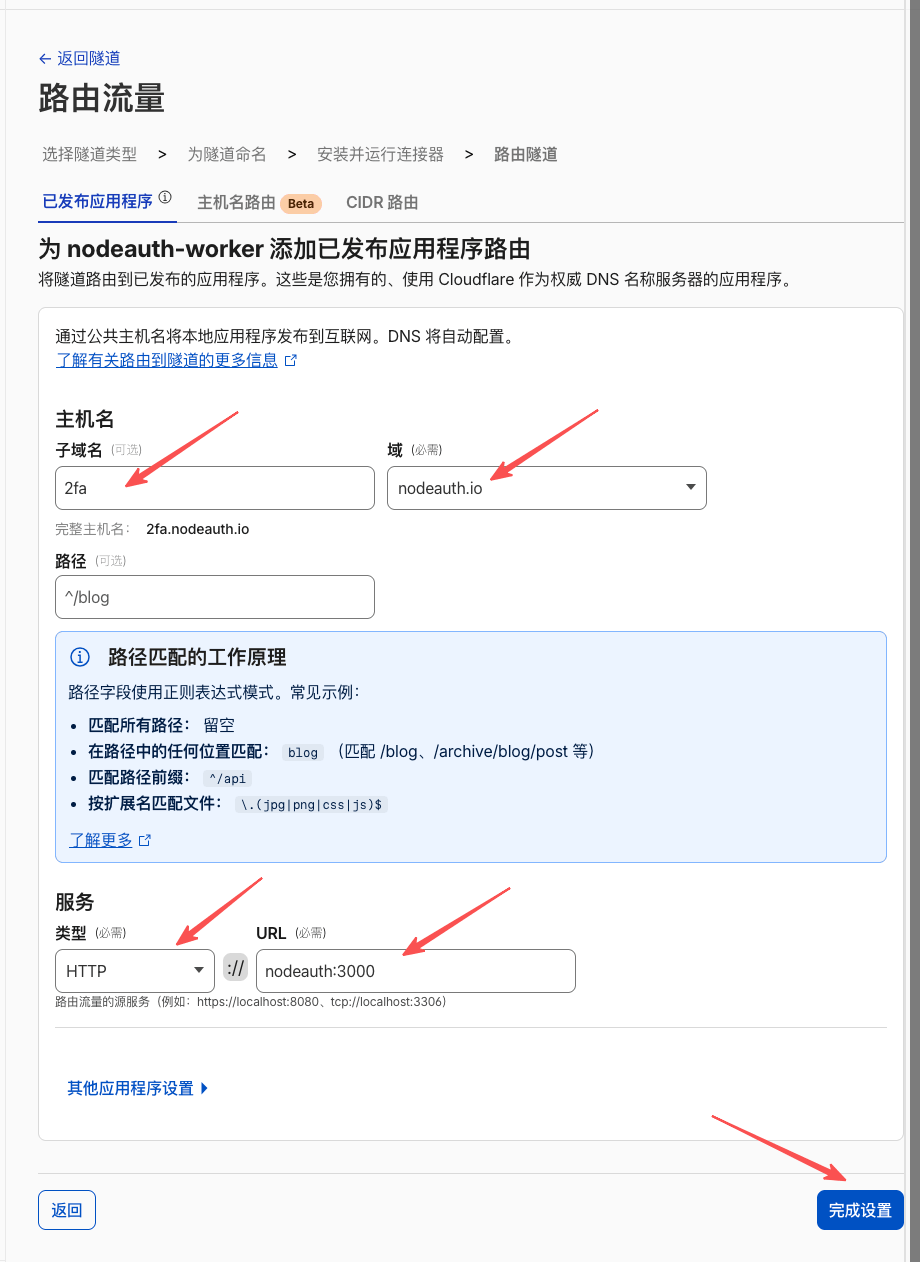
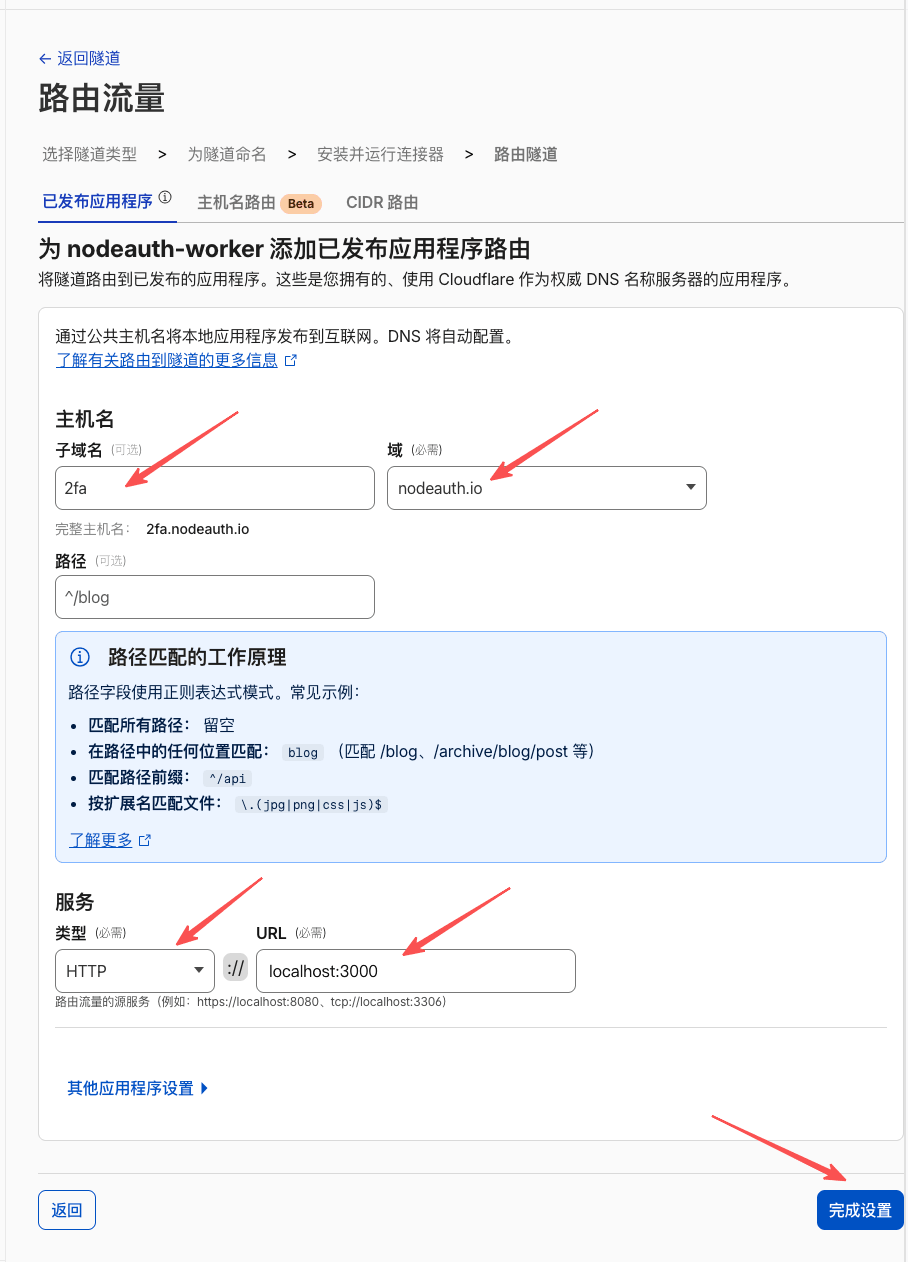
docs: 优化部署与环境变量文档
- 补充 libsql/d1 数据库引擎及 DB_URL 首选连接说明
- 升级 Cloudflare Tunnel 为内置零端口穿透推荐方案
- 重构数据库环境变量配置表，消除备选列重复视觉噪音

diff --git a/docs/en/deploy/docker.md b/docs/en/deploy/docker.md
@@ -60,6 +60,31 @@ sudo chown -R 1000:1000 data
 *   [PostgreSQL Local Container](https://github.com/nodeauth/nodeauth-worker/blob/main/docker-compose-postgresql-local.yml)
 *   [PostgreSQL Remote Connection](https://github.com/nodeauth/nodeauth-worker/blob/main/docker-compose-postgresql-remote.yml)
 
+<details>
+<summary>Click to view: Detailed Storage Options</summary>
+
+#### Option A: Minimalist (SQLite)
+**Target Audience**: Individual users, NAS users, seeking an "all-in-one" solution.
+*   **Advantages**: No separate database container required. All data is stored in a single `data/nodeauth.db` file.
+*   **Configuration**: Simply mount the `/app/data` directory; no `DB_HOST` variables needed.
+*   **Edge & Distributed Support**: By setting `DB_ENGINE` to `libsql` (e.g., Turso) or `d1` (Cloudflare D1 Proxy) alongside `DB_URL` and `DB_TOKEN`, you can seamlessly connect to cloud-distributed SQLite derivatives.
+
+#### Option B: Classic (MySQL)
+**Target Audience**: Users with existing MySQL environments or requiring structured database management.
+*   **Support**: Supports linking with local MySQL containers or connecting to remote RDS/cloud databases.
+*   **Configuration Requirements** (Choose one):
+    *   **Method 1 [Preferred]**: Use the full `DB_URL` connection string (e.g., `mysql://user:password@host:port/dbname`).
+    *   **Method 2 [Alternative]**: When `DB_URL` is omitted, configure `DB_HOST`, `DB_PORT`, `DB_USER`, `DB_PASSWORD`, and `DB_NAME` individually.
+
+#### Option C: Advanced (PostgreSQL)
+**Target Audience**: Users seeking top performance or using external Postgres services like Supabase.
+*   **Support**: Perfectly adapts to Supabase remote connections (setting `DB_SSL=true` is recommended).
+*   **Configuration Requirements** (Choose one):
+    *   **Method 1 [Preferred]**: Use the full `DB_URL` connection string (e.g., `postgresql://user:password@host:port/dbname`).
+    *   **Method 2 [Alternative]**: When `DB_URL` is omitted, configure PG-specific `DB_HOST`, `DB_PORT`, `DB_USER`, `DB_PASSWORD`, and `DB_NAME` individually.
+
+</details>
+
 ### 2. Configure Environment Variables
 Please refer to the detailed [Environment Variables Guide](./env) to correctly modify the variables in your `docker-compose.yml`.
 
@@ -80,9 +105,12 @@ Below are two mainstream reverse proxy solutions. Choose one:
 
 ---
 
-### Option 1: Cloudflare Tunnel (Zero Port Exposure, Recommended)
+### Option 1: Cloudflare Tunnel Built-in Zero-Port Tunnel (Highly Recommended)
 
 Cloudflare Tunnel securely exposes your local service to the internet via outbound connections (without opening any inbound firewall ports), making it perfect for dynamic IPs or users who don't want to expose their server's true IP.
+
+> [!TIP]
+> **Native Cloud-Native Experience**: The NodeAuth container natively integrates the `cloudflared` client! You no longer need to maintain an extra external tunnel container or expose host ports. Simply configure an environment variable to launch the tunnel automatically in the background!
 
 **Prerequisite**: Your domain's DNS is managed by Cloudflare.
 
@@ -110,49 +138,36 @@ Go back to the Cloudflare Zero Trust Dashboard, under the **Public Hostname** ta
 | **Subdomain** | `2fa` (i.e., `2fa.yourdomain.com`) |
 | **Domain** | Your domain |
 | **Type** | `HTTP` |
-| **URL** | `nodeauth:3000` (Docker service name + port) |
+| **URL** | `localhost:3000` |
 
 <details>
 <summary>Click to view: Detailed visual guide</summary>
 <img height="400" src="/deploy/58771d96-5ad0-4e2d-9089-08ee513c42a7.png" />
 </details>
 
-**Step 3: Run cloudflared on Server**
+**Step 3: Configure and Run**
 
-The simplest way is to deploy `cloudflared` as a Docker container alongside NodeAuth in the same `docker-compose.yml`:
+*   Simply add your `CLOUDFLARE_TUNNEL_TOKEN` directly into the app container's environment variables. The container will automatically launch and maintain the encrypted tunnel in the background without exposing any host ports:
+    ```yaml
+    services:
+      nodeauth:
+        image: nodeauth/nodeauth-worker:latest
+        # Note: When using Tunnel, no ports need to be exposed. Comment out or delete the ports block.
+        # ports:
+        #   - "3000:3000"
+        volumes:
+          - ./data:/app/data
+        environment:
+          - NODEAUTH_LICENSE=your_license
+          - JWT_SECRET=your_jwt_secret
+          - ENCRYPTION_KEY=your_encryption_key
+          - OAUTH_ALLOWED_USERS=your_email@example.com
+          
+          # [One-Click Tunnel] Paste your Token copied from Cloudflare
+          - CLOUDFLARE_TUNNEL_TOKEN=eyJhIjoiN****WbVl6ayJ9
+    ```
 
-```yaml
-services:
-  nodeauth:
-    image: nodeauth/nodeauth-worker:latest
-    # Note: When using Tunnel, you don't need to expose ports. Remove the ports config.
-    environment:
-      - NODEAUTH_LICENSE=your_license
-      # ... other env vars
-    volumes:
-      - ./data:/app/data
-
-  # New Cloudflare Tunnel config
-  cloudflared:
-    image: cloudflare/cloudflared:latest
-    command: tunnel --no-autoupdate run
-    environment:
-      # Paste the Token copied from Step 1 here
-      - TUNNEL_TOKEN=your_cloudflare_tunnel_token
-    depends_on:
-      - nodeauth
-    restart: always
-```
-
-Save and run:
-```bash
-docker compose up -d
-```
-
-Cloudflare will automatically issue a certificate and establish the tunnel. You can now access `https://2fa.yourdomain.com` without opening any firewall ports.
-
-> [!TIP]
-> With Cloudflare Tunnel, HTTPS is handled automatically by Cloudflare, and traffic between the container and Cloudflare is encrypted. This is the **most secure** reverse proxy method, highly recommended for home broadband or NAS users.
+Save and run `docker compose up -d`. Cloudflare will automatically issue an SSL certificate and establish an encrypted tunnel. You can now access `https://2fa.yourdomain.com` without opening any firewall inbound ports!
 
 ---
 

diff --git a/docs/en/deploy/env.md b/docs/en/deploy/env.md
@@ -140,18 +140,43 @@ If you have already configured Google login, some variables can be reused, but t
 If you use Cloudflare Workers deployment, the system will automatically use the D1 database, and **no configuration** of the following variables is necessary.
 
 If you are deploying on Docker or your own server:
-*   **Default using SQLite**: Simply mount the `/app/data` directory; no configuration of the following variables is needed.
-*   **Using MySQL / PostgreSQL**: You **must** fully complete all the following connection information (`DB_HOST` to `DB_NAME`).
+*   **Default using SQLite**: Simply mount the `/app/data` directory; no database connection configuration is needed.
+*   **Using MySQL / PostgreSQL / LibSQL / D1**: Please configure `DB_ENGINE`, followed by either **Method 1** or **Method 2** below.
 
-| Variable | Required (non-SQLite) | Default | Description |
+| Basic Variable | Required | Default | Description |
 | :--- | :--- | :--- | :--- |
-| `DB_ENGINE` | ✅ | `sqlite` | Database Type: supports `sqlite`, `mysql`, `postgresql`. |
-| `DB_HOST` | ✅ | - | Database Server Address. Supports local `localhost`, Docker service name `mysql-db`, as well as **remote domains** (e.g.: `aws-1.pooler.supabase.com`) or **public IPs**. |
-| `DB_PORT` | ✅ | - | Database Port. MySQL default is `3306`, PostgreSQL default is `5432`. |
+| `DB_ENGINE` | ✅ | `sqlite` | Database Type: supports `sqlite`, `mysql`, `postgresql`, `libsql`, `d1`. |
+
+#### Method 1: Full Connection String (⭐ Highly Recommended)
+The simplest modern configuration method. Just one line of standard connection URL connects your database, ideal for Turso, Supabase, or external cloud databases.
+
+| Variable | Required | Default | Description |
+| :--- | :--- | :--- | :--- |
+| `DB_URL` | ✅ | - | **Standard connection string**. e.g., `mysql://user:pass@host:3306/dbname` or `postgresql://...`. |
+| `DB_TOKEN` | On-demand | - | **Cloud database auth token**. Required only when connecting to `libsql` (e.g., Turso) or `d1` (Cloudflare D1 Proxy) which require token authentication. |
+| `DB_SSL` | ❌ | `false` | Whether to enable SSL connection (recommended as `true` when connecting to remote cloud databases). |
+
+#### Method 2: Traditional Separate Parameters (Alternative)
+If you prefer traditional separate parameter configuration (e.g., connecting to a database within Docker internal networks), fill in the fields below (if `DB_URL` above is provided, all parameters in this section are automatically ignored).
+
+| Variable | Required | Default | Description |
+| :--- | :--- | :--- | :--- |
+| `DB_HOST` | ✅ | - | Database server address. Supports local `localhost`, Docker service name (e.g., `mysql-db`), remote domain, or IP. |
+| `DB_PORT` | ✅ | - | Database port. MySQL default is `3306`, PostgreSQL default is `5432`. |
 | `DB_USER` | ✅ | - | Database username. |
 | `DB_PASSWORD` | ✅ | - | Database password. |
 | `DB_NAME` | ✅ | - | Specific database name. |
-| `DB_SSL` | ❌ | `false` | Whether to enable SSL connection (recommended as `true` when connecting to remote cloud databases like Supabase). |
+| `DB_SSL` | ❌ | `false` | Whether to enable SSL connection. |
+
+---
+
+## 🌐 Tunnel Configuration (Optional)
+
+When deploying via Docker and wishing to securely expose services via Cloudflare Tunnel without opening inbound ports, we recommend configuring this variable:
+
+| Variable | Default | Description |
+| :--- | :--- | :--- |
+| `CLOUDFLARE_TUNNEL_TOKEN` | - | Official Cloudflare Tunnel Token. Once configured, the container will automatically launch the built-in `cloudflared` daemon upon startup without exposing any host inbound ports. We recommend encrypting it with `aes:`, `base64:`, or `hex:` prefixes. |
 
 ---
 
@@ -175,8 +200,8 @@ Depending on the nature of the variables, the system provides two levels of secu
 
 | Security Tier | Variables | Handling (Prefix) | Description |
 | :--- | :--- | :--- | :--- |
-| **⭐ Obfuscation** | `NODEAUTH_LICENSE`, `JWT_SECRET` | `base64:`, `hex:` | Root anchor for session signing. Supports basic encoding-level obfuscation. |
-| **🛡 Encryption** | All other variables | `base64:`, `hex:`, `aes:` | All sensitive variables are protected with high-strength encryption. **`aes:`** is highly recommended. |
+| **⭐ Obfuscation** | `NODEAUTH_LICENSE`, `JWT_SECRET` | `base64:`, `hex:` | Root anchor for session signing. Supports basic encoding and hex obfuscation. |
+| **🛡 Encryption** | All other sensitive variables | `base64:`, `hex:`, `aes:` | Includes database passwords (`DB_PASSWORD`, `DB_TOKEN`, `DB_URL`), access allowlists (`OAUTH_ALLOWED_USERS`), tunnel credentials (`CLOUDFLARE_TUNNEL_TOKEN`), and third-party OAuth credentials (`OAUTH_*`). Highly recommend using **`aes:`** for robust encryption. |
 
 ### 🛠 Quick Start (3 Steps)
 

diff --git a/docs/cn/deploy/env.md b/docs/cn/deploy/env.md
@@ -124,18 +124,34 @@ NodeAuth 拒绝公开注册，必须预设允许进入的用户。
 如果您使用 Cloudflare Workers 部署，系统会自动使用 D1 数据库，**无需配置**以下变量。
 
 如果您在 Docker 或自己的服务器上部署：
-*   **默认使用 SQLite**：仅需挂载 `/app/data` 目录，无需配置以下变量。
-*   **使用 MySQL / PostgreSQL**：**必须**完整填写以下所有连接信息 (`DB_HOST` 到 `DB_NAME`)。
+*   **默认使用 SQLite**：仅需挂载 `/app/data` 目录，无需配置以下数据库连接变量。
+*   **使用 MySQL / PostgreSQL / LibSQL / D1**：请配置 `DB_ENGINE`，并在其后选择**方式一**或**方式二**进行连接。
 
-| 变量名 | 必填 (非 SQLite) | 默认值 | 说明 |
+| 基础变量名 | 必填 | 默认值 | 说明 |
 | :--- | :--- | :--- | :--- |
-| `DB_ENGINE` | ✅ | `sqlite` | 数据库类型：支持 `sqlite`, `mysql`, `postgresql`。 |
-| `DB_HOST` | ✅ | - | 数据库服务器地址。支持本地 `localhost`、Docker 服务名 `mysql-db`，以及 **远程域名** (如：`aws-1.pooler.supabase.com`) 或 **公网 IP**。 |
+| `DB_ENGINE` | ✅ | `sqlite` | 数据库类型：支持 `sqlite`, `mysql`, `postgresql`, `libsql`, `d1`。 |
+
+#### 方式一：完整连接串配置（⭐ 强烈推荐首选）
+最简便的现代化配置方式，仅需一行标准连接 URL 即可打通，尤其适用于 Turso、Supabase 或各类云端数据库。
+
+| 变量名 | 必填 | 默认值 | 说明 |
+| :--- | :--- | :--- | :--- |
+| `DB_URL` | ✅ | - | **标准连接字符串**。例如 `mysql://user:pass@host:3306/dbname` 或 `postgresql://...`。 |
+| `DB_TOKEN` | 按需 | - | **云数据库鉴权令牌**。仅在连接 `libsql` (如 Turso) 或 `d1` (Cloudflare D1 Proxy) 等需要 Token 鉴定时填写。 |
+| `DB_SSL` | ❌ | `false` | 是否启用 SSL 连接（连接远程云数据库时建议设为 `true`）。 |
+
+#### 方式二：传统分立参数配置（备选）
+如果您偏好传统的独立字段配置（如连接 Docker 容器内部网络的数据库），也可使用以下参数分立填写（如已填写上方 `DB_URL`，则本小节参数全部自动忽略）。
+
+| 变量名 | 必填 | 默认值 | 说明 |
+| :--- | :--- | :--- | :--- |
+| `DB_HOST` | ✅ | - | 数据库服务器地址。支持本地 `localhost`、Docker 服务名（如 `mysql-db`）、远程域名或 IP。 |
 | `DB_PORT` | ✅ | - | 数据库端口。MySQL 默认为 `3306`，PostgreSQL 默认为 `5432`。 |
 | `DB_USER` | ✅ | - | 数据库用户名。 |
 | `DB_PASSWORD` | ✅ | - | 数据库密码。 |
 | `DB_NAME` | ✅ | - | 具体的数据库名称。 |
-| `DB_SSL` | ❌ | `false` | 是否启用 SSL 连接（连接远程云数据库如 Supabase 时建议设为 `true`）。 |
+| `DB_SSL` | ❌ | `false` | 是否启用 SSL 连接。 |
+
 
 ---
 
@@ -152,6 +168,16 @@ NodeAuth 拒绝公开注册，必须预设允许进入的用户。
 | **Baidu** | `OAUTH_BAIDU_CLIENT_ID` | `OAUTH_BAIDU_CLIENT_SECRET` | `OAUTH_BAIDU_BACKUP_REDIRECT_URI` |
 
 *注：回调地址统一格式为 `https://您的域名/api/backups/oauth/[平台名]/callback`*
+
+---
+
+## 🌐 内网穿透配置 (可选)
+
+当通过 Docker 方式部署并希望利用内网穿透安全开放服务时，推荐配置此变量：
+
+| 变量名 | 默认值 | 说明 |
+| :--- | :--- | :--- |
+| `CLOUDFLARE_TUNNEL_TOKEN` | - | Cloudflare Tunnel 的官方安全连接 Token。填入后容器会在启动时自动唤起内置的 `cloudflared` 守护进程，无需对外暴露任何宿主机入站端口。建议通过 `aes:`, `base64:` 或 `hex:` 格式加密脱敏。 |
 
 ---
 
@@ -175,8 +201,8 @@ NodeAuth 拒绝公开注册，必须预设允许进入的用户。
 
 | 安全等级 | 支持变量 | 处理方式 (前缀) | 说明 |
 | :--- | :--- | :--- | :--- |
-| **⭐ 编码脱敏** | `NODEAUTH_LICENSE`, `JWT_SECRET` | `base64:`, `hex:` | 用于会话签名的核心锚点，支持基础的编码脱敏。 |
-| **🛡 加密保护** | 其余所有变量 | `base64:`, `hex:`, `aes:` | 所有的敏感变量均经过高强度加密保护。推荐使用 **`aes:`** 方式加密  |
+| **⭐ 编码脱敏** | `NODEAUTH_LICENSE`, `JWT_SECRET` | `base64:`, `hex:` | 用于会话签名的核心锚点，支持基础的编码与十六进制脱敏。 |
+| **🛡 加密保护** | 其余所有敏感变量 | `base64:`, `hex:`, `aes:` | 包含数据库密码 (`DB_PASSWORD`, `DB_TOKEN`, `DB_URL`)、准入白名单 (`OAUTH_ALLOWED_USERS`)、穿透凭证 (`CLOUDFLARE_TUNNEL_TOKEN`) 以及各类第三方应用凭证 (`OAUTH_*`)，均可使用 **`aes:`** 进行高强度加密。 |
 
 ### 🛠 快速上手 (三步搞定)
 
